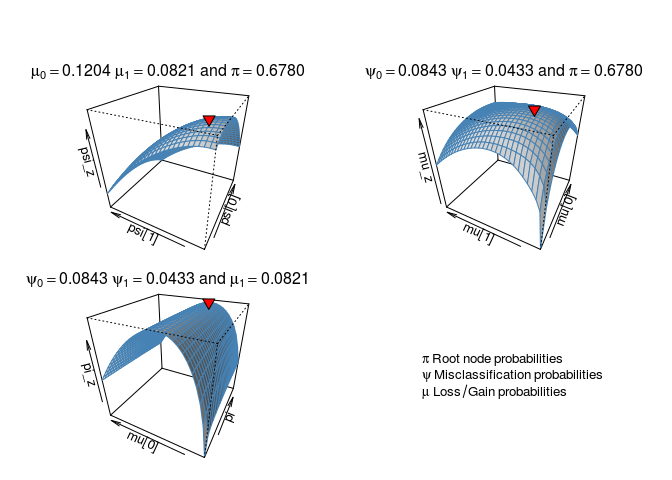
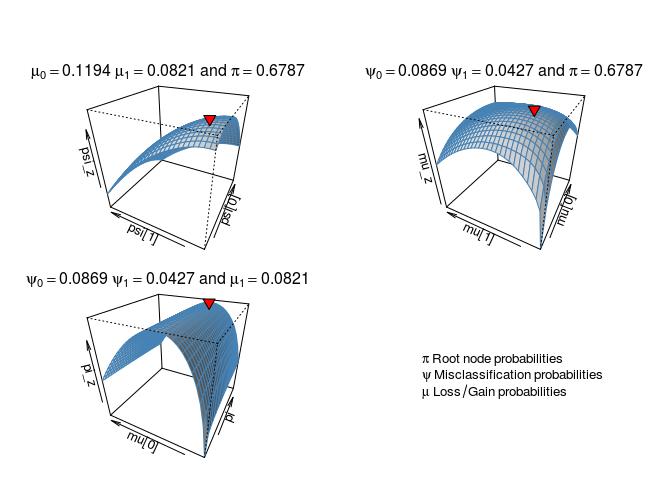
Working on prediction viz

diff --git a/README.md b/README.md
@@ -198,7 +198,7 @@ ans0 <- aphylo_mle(dat)
 
 # MCMC method
 ans2 <- aphylo_mcmc(
-  ans0$par, dat,
+  dat,
   prior = function(p) dbeta(p, 2,20),
   control = list(nbatch=1e4, burnin=100, thin=20, nchains=5))
 ans2
@@ -206,19 +206,19 @@ ans2
 
     ## 
     ## ESTIMATION OF ANNOTATED PHYLOGENETIC TREE
-    ## ll: -425.9144,
+    ## ll: -425.9909,
     ## Method used: mcmc (10000 iterations)
     ## Leafs
     ##  # of Functions 2
     ## 
     ##          Estimate  Std. Error
-    ##  psi[0]    0.0843      0.0458
-    ##  psi[1]    0.0433      0.0273
-    ##  mu[0]     0.1204      0.0239
-    ##  mu[1]     0.0821      0.0237
-    ##  eta[0]    0.6780      0.0364
-    ##  eta[1]    0.7983      0.0336
-    ##  Pi        0.0912      0.0647
+    ##  psi[0]    0.0869      0.0464
+    ##  psi[1]    0.0427      0.0267
+    ##  mu[0]     0.1194      0.0242
+    ##  mu[1]     0.0821      0.0240
+    ##  eta[0]    0.6787      0.0365
+    ##  eta[1]    0.7981      0.0329
+    ##  Pi        0.0959      0.0707
 
 ``` r
 plot(ans2)
@@ -235,17 +235,17 @@ gelman.diag(ans2$hist)
     ## Potential scale reduction factors:
     ## 
     ##      Point est. Upper C.I.
-    ## psi0       1.01       1.02
+    ## psi0       1.01       1.03
     ## psi1       1.00       1.01
-    ## mu0        1.01       1.02
+    ## mu0        1.01       1.03
     ## mu1        1.00       1.01
     ## eta0       1.02       1.04
-    ## eta1       1.01       1.03
-    ## Pi         1.07       1.16
+    ## eta1       1.01       1.02
+    ## Pi         1.10       1.25
     ## 
     ## Multivariate psrf
     ## 
-    ## 1.06
+    ## 1.08
 
 ``` r
 summary(ans2$hist)
@@ -261,24 +261,24 @@ summary(ans2$hist)
     ##    plus standard error of the mean:
     ## 
     ##         Mean      SD  Naive SE Time-series SE
-    ## psi0 0.08431 0.04576 0.0009199      0.0024186
-    ## psi1 0.04333 0.02731 0.0005489      0.0010202
-    ## mu0  0.12038 0.02394 0.0004813      0.0008638
-    ## mu1  0.08209 0.02373 0.0004770      0.0007317
-    ## eta0 0.67804 0.03637 0.0007310      0.0014703
-    ## eta1 0.79834 0.03358 0.0006749      0.0012805
-    ## Pi   0.09123 0.06468 0.0013001      0.0049708
+    ## psi0 0.08688 0.04638 0.0009323      0.0025189
+    ## psi1 0.04267 0.02673 0.0005373      0.0009619
+    ## mu0  0.11944 0.02421 0.0004867      0.0008335
+    ## mu1  0.08211 0.02404 0.0004832      0.0007673
+    ## eta0 0.67870 0.03649 0.0007334      0.0015357
+    ## eta1 0.79810 0.03285 0.0006603      0.0012248
+    ## Pi   0.09589 0.07071 0.0014212      0.0060563
     ## 
     ## 2. Quantiles for each variable:
     ## 
     ##         2.5%     25%     50%     75%  97.5%
-    ## psi0 0.01337 0.04955 0.07836 0.11349 0.1874
-    ## psi1 0.00600 0.02283 0.03815 0.05809 0.1089
-    ## mu0  0.07439 0.10455 0.12039 0.13612 0.1672
-    ## mu1  0.03846 0.06522 0.08102 0.09847 0.1307
-    ## eta0 0.60703 0.65314 0.67875 0.70395 0.7447
-    ## eta1 0.72867 0.77693 0.79965 0.82172 0.8595
-    ## Pi   0.01162 0.04477 0.07602 0.12228 0.2699
+    ## psi0 0.01449 0.05231 0.08139 0.11536 0.1951
+    ## psi1 0.00618 0.02222 0.03736 0.05818 0.1045
+    ## mu0  0.07346 0.10288 0.11855 0.13561 0.1677
+    ## mu1  0.03870 0.06469 0.08051 0.09866 0.1321
+    ## eta0 0.60648 0.65380 0.67969 0.70407 0.7495
+    ## eta1 0.73220 0.77694 0.79815 0.82152 0.8574
+    ## Pi   0.01183 0.04504 0.07958 0.12451 0.2991
 
 Prediction
 ==========
@@ -290,7 +290,7 @@ pred
 
     ## PREDICTION SCORE: ANNOTATED PHYLOGENETIC TREE
     ## Observed : 0.01 
-    ## Random   : 0.36 
+    ## Random   : 0.37 
     ## ---------------------------------------------------------------------------
     ## Values scaled to range between 0 and 1, 0 being best.
 
@@ -298,7 +298,7 @@ pred
 plot(pred)
 ```
 
-![](README_files/figure-markdown_github/Predict-1.png)
+![](README_files/figure-markdown_github/Predict-1.png)![](README_files/figure-markdown_github/Predict-2.png)
 
 Misc
 ====
